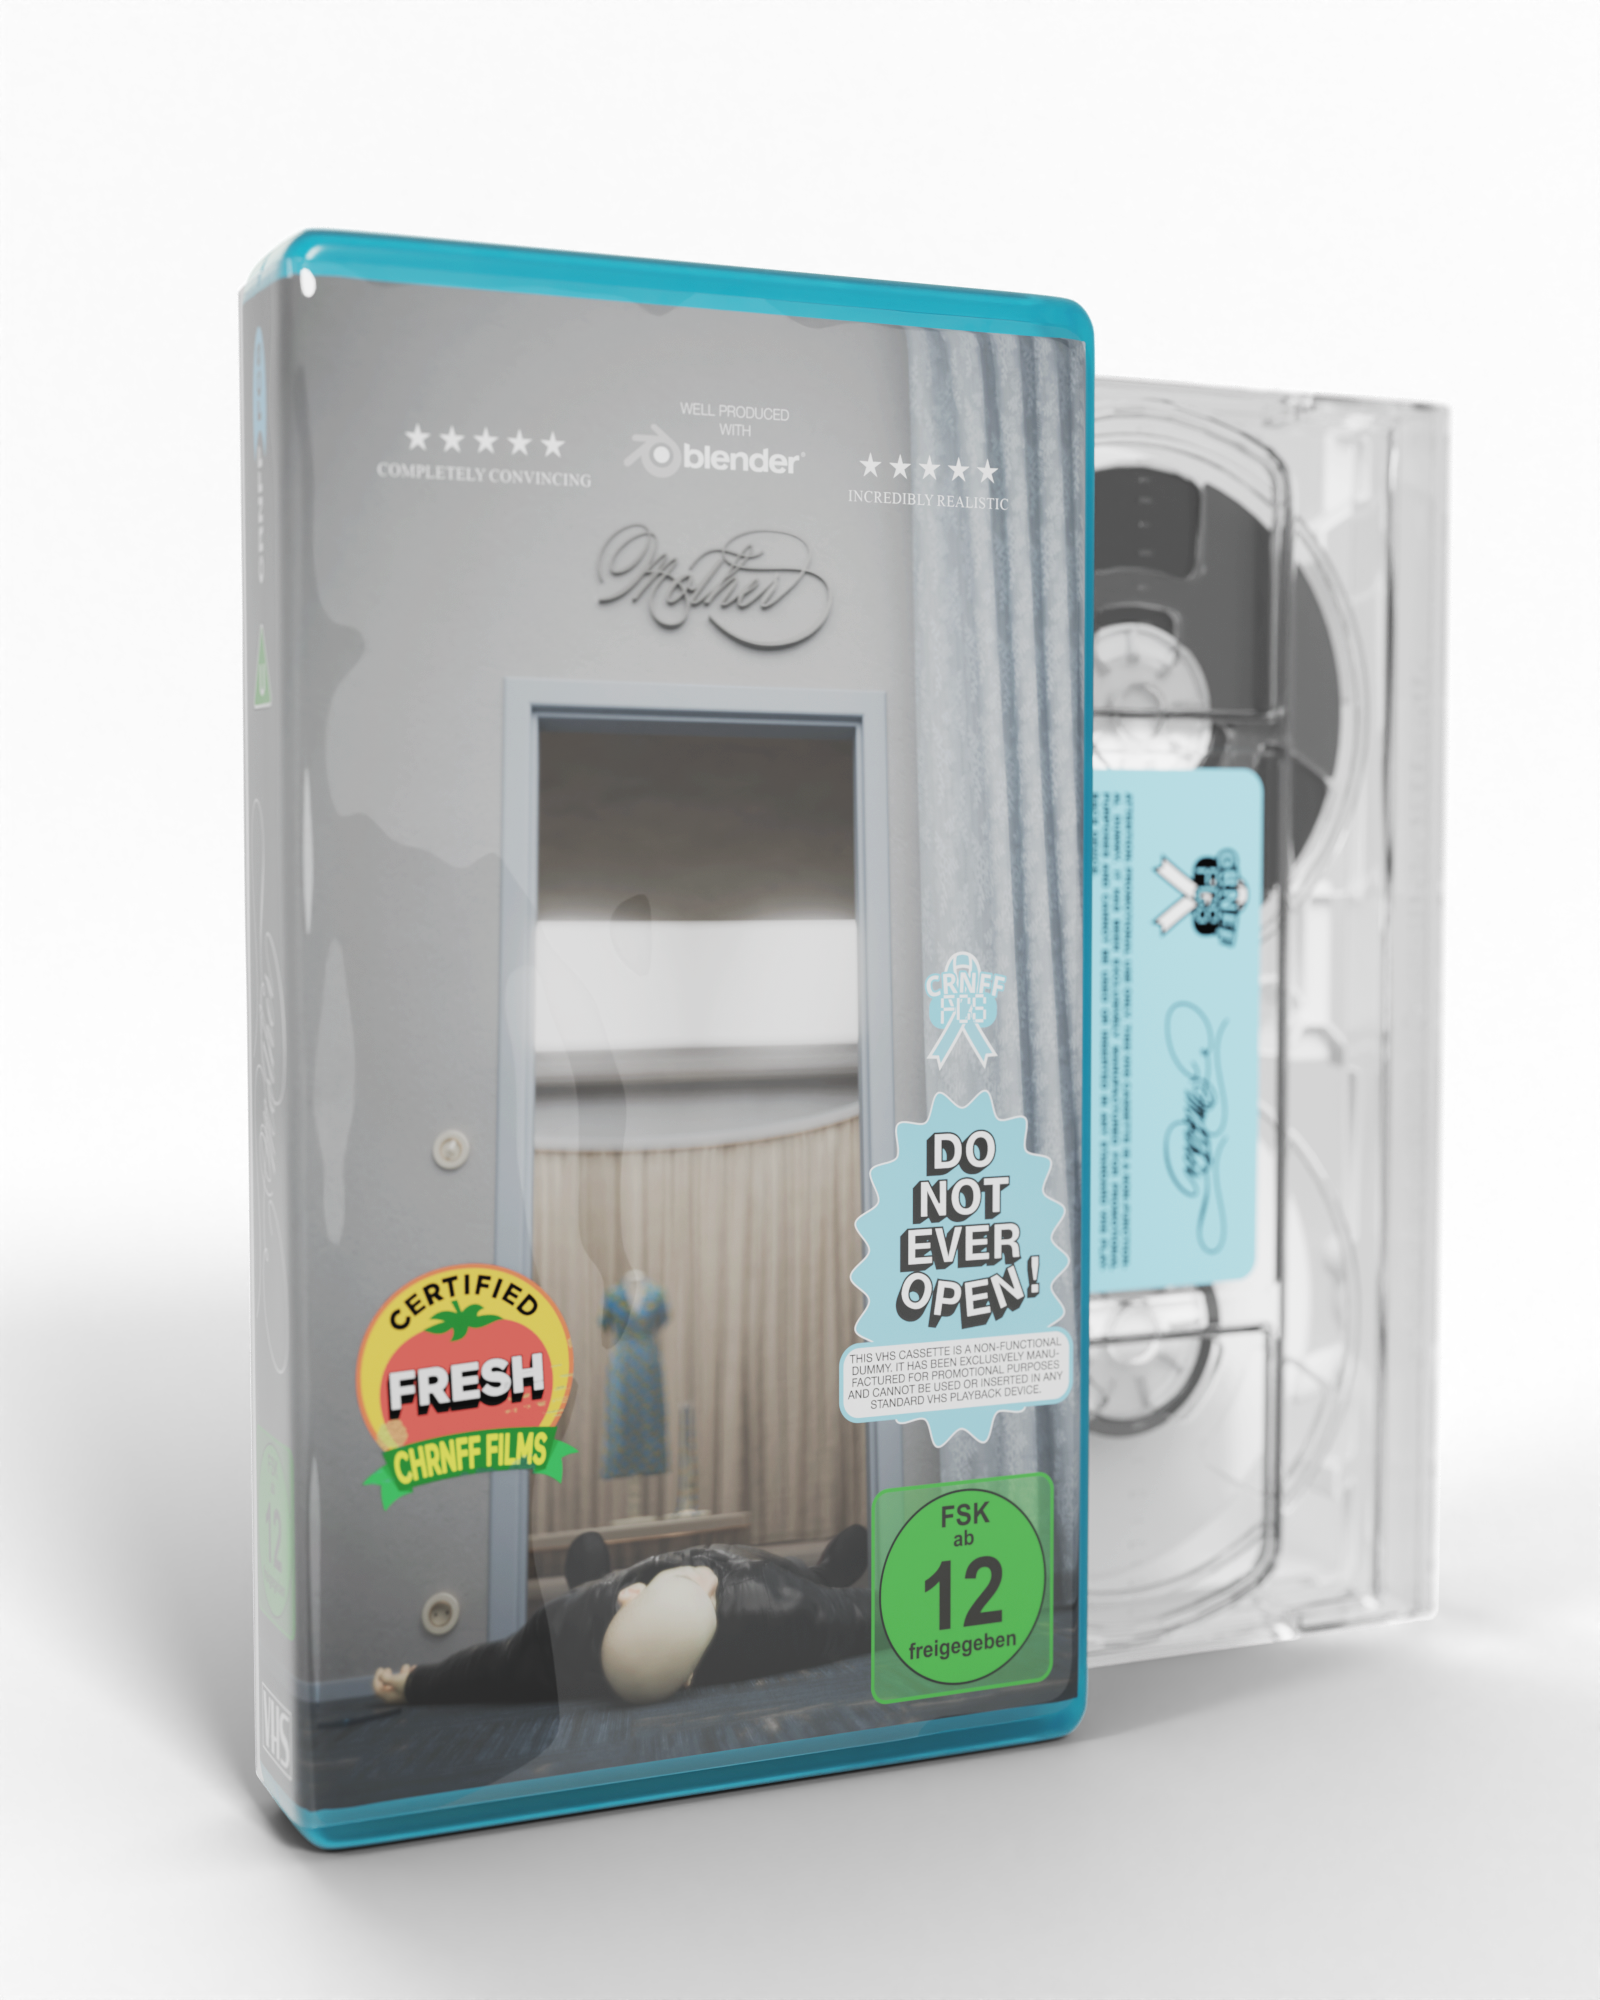
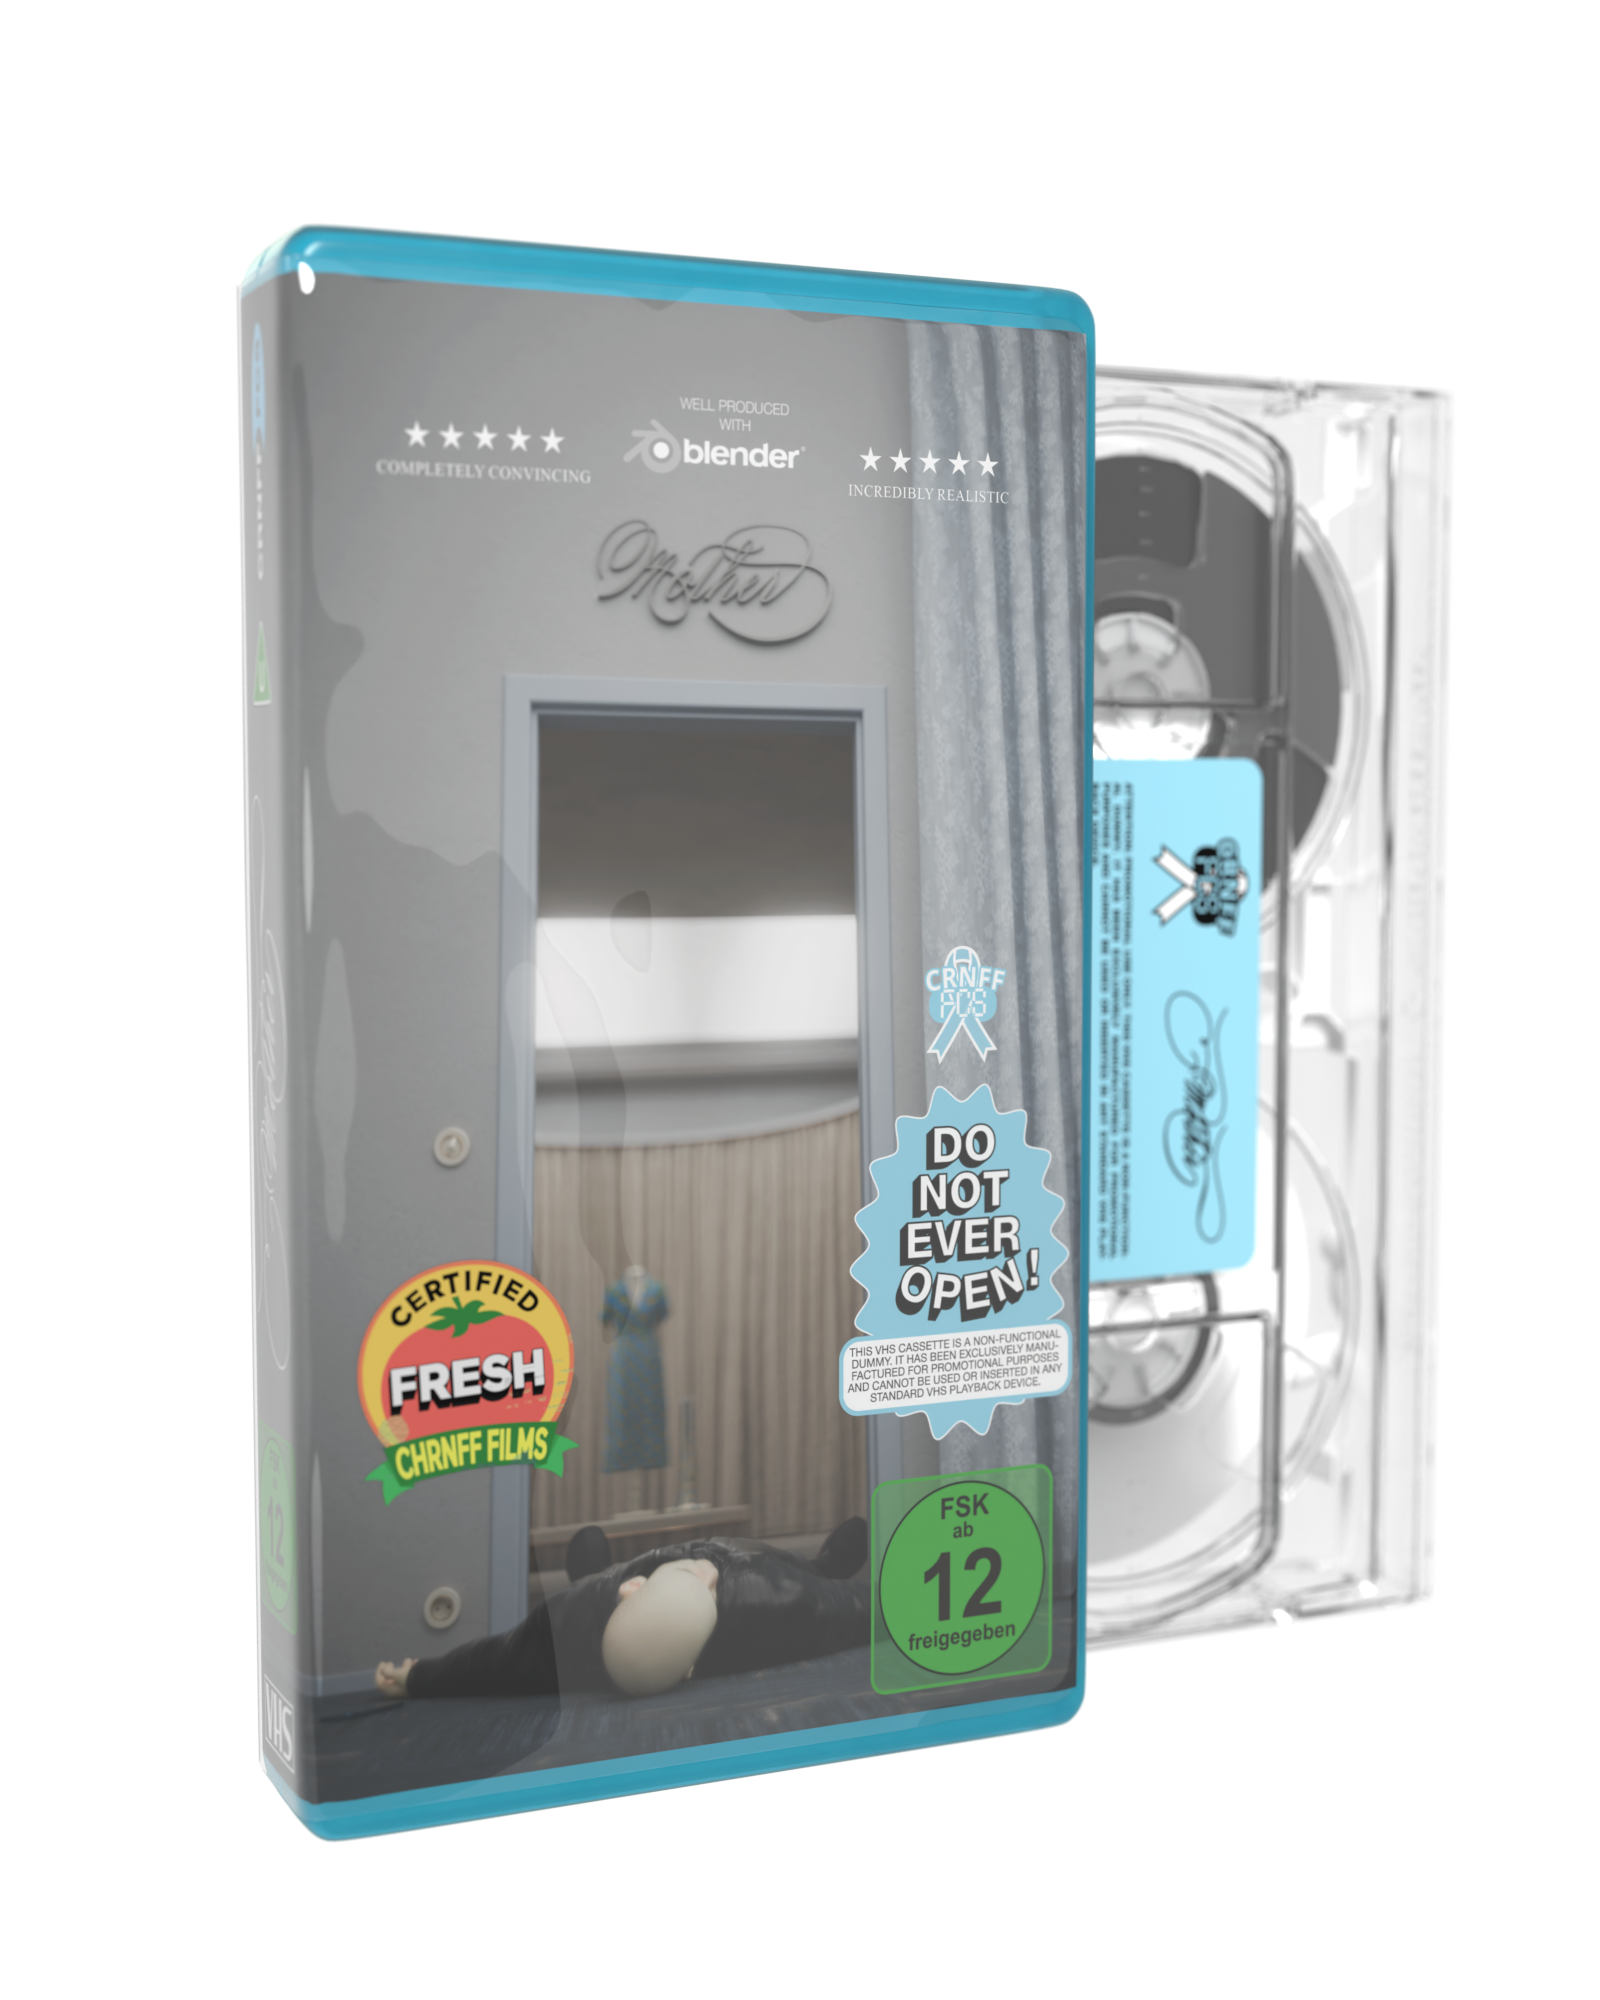
feat: add 'mother' page with layout and styles; update links and assets

diff --git a/mother.html b/mother.html
@@ -1,0 +1,32 @@
+<!DOCTYPE html>
+<html lang="en">
+<head>
+  <meta charset="UTF-8" />
+  <meta name="viewport" content="width=device-width, initial-scale=1.0" />
+  <title>Mother - Chernoff Faces</title>
+  <link rel="stylesheet" href="styles.css" />
+  <link rel="stylesheet" href="mother.css" />
+</head>
+<body class="mother-page">
+  <canvas class="dust-crosses" aria-hidden="true"></canvas>
+  <div class="target-explainer target-explainer--hidden" aria-live="polite">
+    <div class="target-explainer-bubble">
+      <svg class="target-explainer-shape" aria-hidden="true">
+        <path class="target-explainer-path"></path>
+      </svg>
+      <div class="target-explainer-box"></div>
+    </div>
+  </div>
+  <canvas class="star-crosses" aria-hidden="true"></canvas>
+
+  <header class="legal-header">
+    <a class="oval brand" href="index.html" data-explainer-label="Home Button">Chernoff<br />Faces</a>
+  </header>
+
+  <main class="mother-content">
+    <img class="mother-vhs" src="assets/mother_vhs.png" alt="Mother VHS" />
+  </main>
+
+  <script src="docs/js/start_page.js?v=7"></script>
+</body>
+</html>

diff --git a/styles.css b/styles.css
@@ -25,6 +25,9 @@
   --spacing-md:  2rem;
   --spacing-lg:  3rem;
   --layout-max:  552px;
+  --site-gutter: 3rem;
+  --site-width: min(var(--layout-max), calc(100vw - (var(--site-gutter) * 2)));
+  --site-left: max(calc((100vw - var(--layout-max)) / 2), var(--site-gutter));
 }
 
 
@@ -343,7 +346,7 @@ a {
 
 /* ── 6. HEADER & NAVIGATION ── */
 header {
-  width: min(var(--layout-max), calc(100vw - 6rem));
+  width: var(--site-width);
   display: flex;
   align-items: flex-start;
   justify-content: space-between;
@@ -439,7 +442,9 @@ footer {
 }
 
 .legal-header {
-  width: min(var(--layout-max), calc(100vw - 6rem));
+  width: var(--site-width);
+  margin-left: var(--site-left);
+  margin-right: 0;
   justify-content: flex-start;
 }
 

diff --git a/mother.css b/mother.css
@@ -1,0 +1,28 @@
+.mother-page {
+  min-height: 100svh;
+  padding: 0;
+  background: var(--color-bg);
+}
+
+.mother-content {
+  width: min(var(--layout-max), calc(100vw - 2rem));
+  flex: 1;
+  display: grid;
+  place-items: center;
+  padding: 1rem;
+}
+
+.mother-vhs {
+  display: block;
+  width: min(78vw, 520px);
+  max-height: calc(100svh - 4rem);
+  height: auto;
+  object-fit: contain;
+}
+
+@media (max-width: 600px) {
+  .mother-vhs {
+    width: min(88vw, 420px);
+    max-height: calc(100svh - 2rem);
+  }
+}

diff --git a/index.html b/index.html
@@ -24,7 +24,7 @@
 
     <div class="projects-box">
       <div class="projects-inner">
-        <a class="oval mother-random-font" href="#" aria-label="Mother"><span>Mother</span></a>
+        <a class="oval mother-random-font" href="mother.html" aria-label="Mother"><span>Mother</span></a>
         <a class="oval" href="#">Downer</a>
       </div>
       <div class="projects-label">Current Projects of the Chernoff Faces</div>
